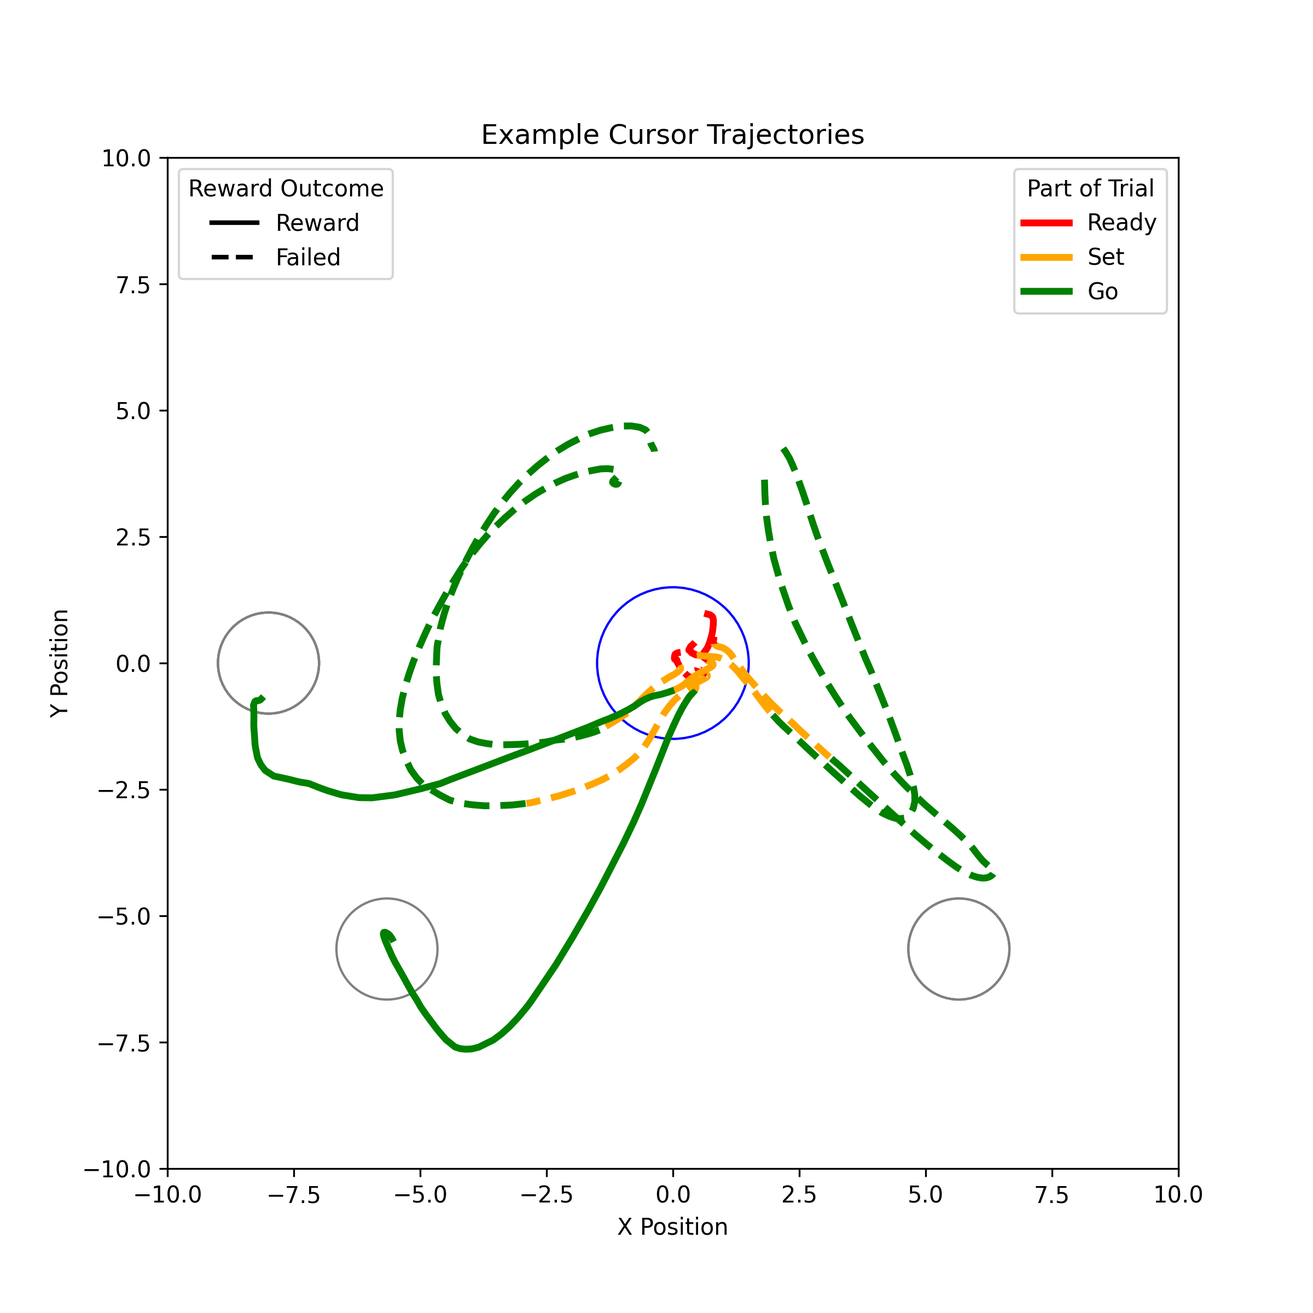
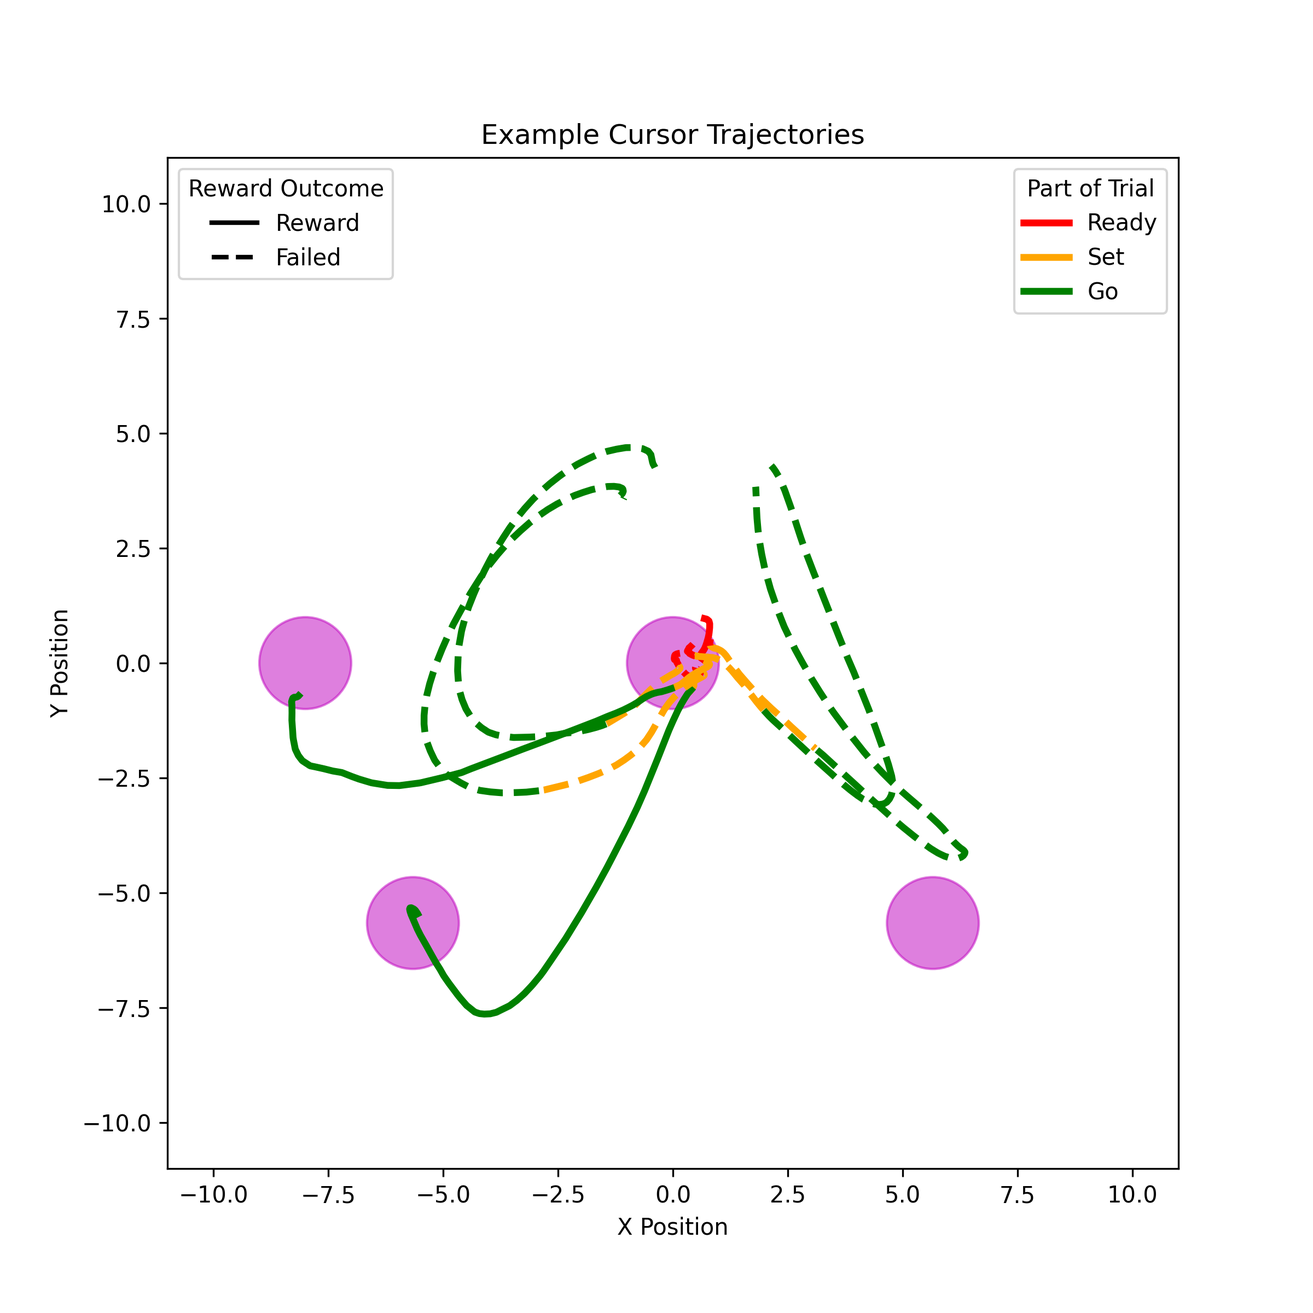
Add two different version of wrapper readyset (v1 & v2) to account for the different task structures. Add a small function that allows for choice between the two. Update the test file to account for the differences. Added columns for ready time, set time , go cue time as well as earliest move time a

diff --git a/aopy/data/bmi3d.py b/aopy/data/bmi3d.py
@@ -2663,8 +2663,195 @@ def tabulate_behavior_data_random_targets(preproc_dir, subjects, ids, dates, met
     df = pd.concat([df, new_df], ignore_index = True)
     return df
 
-def tabulate_behavior_data_readyset(preproc_dir, subjects, ids, dates, metadata = [], df = None):
+def tabulate_readyset_v1(preproc_dir, subjects, ids, dates, metadata=[], df=None):
+    '''
+    Wrapper around tabulate_behavior_data() specifically for readysetgo center-out experiments. 
+    Modified version of the existing tabulate_behavior_data_center_out wrapper.
+    Makes use of the task codes saved in `/config/task_codes.yaml` to automatically 
+    assign event codes for trial start, trial end, reward, penalty, and targets. Used for data prior to 08/2025 as the readyset task was changed after that time.
 
+    Args:
+        preproc_dir (str): base directory where the files live
+        subjects (list of str): Subject name for each recording
+        ids (list of int): Block number of Task entry object for each recording
+        dates (list of str): Date for each recording
+        metadata (list, optional): list of metadata keys that should be included in the df
+        df (DataFrame, optional): pandas DataFrame object to append. Defaults to None.
+
+    Returns:
+        pd.DataFrame: pandas DataFrame containing the concatenated trial data with columns:
+            | **subject (str):** subject name
+            | **te_id (str):** task entry id
+            | **date (str):** date of recording
+            | **event_codes (ntrial):** numeric code segments for each trial
+            | **event_times (ntrial):** time segments for each trial
+            | **reward (ntrial):** boolean values indicating whether each trial was rewarded
+            | **penalty (ntrial):** boolean values indicating whether each trial was penalized
+            | **%metadata_key% (ntrial):** requested metadata values for each key requested
+            | **target_idx (ntrial):** index of the target that was presented
+            | **target_location (ntrial):** location of the target that was presented
+            | **center_target_on_time (ntrial):** time at which the trial started
+            | **prev_trial_end_time (ntrial):** time at which the previous trial ended
+            | **trial_end_time (ntrial):** time at which the trial ended
+            | **trial_initiated (ntrial):** boolean values indicating whether the trial was initiated
+            | **hold_start_time (ntrial):** time at which the hold period started
+            | **hold_completed (ntrial):** boolean values indicating whether the hold period was completed
+            | **periph_display_time (ntrial):** time at which the peripheral target was displayed
+            | **periph_target_displayed (ntrial):** boolean values indicating whether the peripheral target was displayed
+            | **ready_start_time (ntrial):** time at which the tone wav file starts 
+            | **set_start_time (ntrial):** time of the set cue
+            | **set_cue_heard (ntrial):** boolean whether set cue was heard  
+            | **go_cue_heard (ntrial):** boolean values indicating whether the go cue was heard
+            | **go_cue_time (ntrial):** time at which the go cue was presented
+            | **earliest_move_time (ntrial):** earliest time at which the user is allowed to move out of the center target 
+            | **latest_move_time (ntrial):** time at which user has to have moved out of the center target 
+            | **reach_completed (ntrial):** boolean values indicating whether the reach was completed
+            | **reach_end_time (ntrial):** time at which the reach was completed
+            | **reward_start_time (ntrial):** time at which the reward was presented
+            | **reward_end_time (ntrial):** time at which the reward was completed
+            | **penalty_start_time (ntrial):** time at which the penalty was presented
+            | **penalty_end_time (ntrial):** time at which the penalty was completed
+            | **penalty_event (ntrial):** numeric code for the penalty event
+    '''
+    # Use default "trial" definition
+    task_codes = load_bmi3d_task_codes()
+    task_codes['CUE'] = 112  # readysetgo auditory cue code
+    trial_end_codes = [task_codes['TRIAL_END']]
+    trial_start_codes = [task_codes['CENTER_TARGET_ON']]
+    reward_codes = [task_codes['REWARD']]
+    penalty_codes = [task_codes['DELAY_PENALTY'], task_codes['HOLD_PENALTY'], 
+                     task_codes['TIMEOUT_PENALTY'], task_codes['OTHER_PENALTY']]
+    target_codes = task_codes['PERIPHERAL_TARGET_ON']
+    auditory_codes = task_codes['CUE']
+
+    always_meta = ['prepbuff_time' , 'delay_time', 'mustmv_time', 'ready_set_sound'] #need these to calculate go cue timing 
+    # Concatenate base trial data
+    new_df = tabulate_behavior_data(
+        preproc_dir, subjects, ids, dates, trial_start_codes, trial_end_codes, 
+        reward_codes, penalty_codes, metadata = metadata+always_meta, df=None)
+    if len(new_df) == 0:
+        warnings.warn("No trials found")
+    if (new_df['ready_set_sound'].unique() != 'tones.wav').all(): #spacing will be different if a different wave file was used 
+        warnings.warn("Not all ready_set_sound wavefiles are 'tones.wav', spacing for dataframe will not be accurate!")
+        return df
+
+    # Add target info
+    target_idx = [
+        code[np.isin(code, target_codes)][0] - target_codes[0] + 1 # add 1 for center target
+        if np.sum(np.isin(code, target_codes)) > 0 else 0 
+        for code 
+        in new_df['event_codes']
+    ]
+    target_location = [
+        np.squeeze(get_target_locations(preproc_dir, s, te, d, [t_idx]))
+        for s, te, d, t_idx 
+        in zip(new_df['subject'], new_df['te_id'], new_df['date'], target_idx)
+    ]
+    new_df['target_idx'] = target_idx
+    new_df['target_location'] = target_location
+
+    # Add trial segment timing
+    new_df['prev_trial_end_time'] = np.nan
+    new_df['trial_end_time'] = np.nan
+    new_df['center_target_on_time'] = np.nan
+    new_df['trial_initiated'] = False
+    new_df['hold_start_time'] = np.nan
+    new_df['hold_completed'] = False
+    new_df['periph_display_time'] = np.nan
+    new_df['periph_target_displayed'] = False
+    new_df['ready_start_time'] = np.nan
+    new_df['set_cue_time'] = np.nan
+    new_df['set_cue_heard'] = False
+    new_df['go_cue_heard'] = False
+    new_df['go_cue_time'] = np.nan
+    new_df['earliest_move_time'] = np.nan
+    new_df['latest_move_time'] = np.nan
+    new_df['must_move_passed'] = False
+    new_df['reach_completed'] = False
+    new_df['reach_end_time'] = np.nan
+    new_df['reward_start_time'] = np.nan
+    new_df['penalty_start_time'] = np.nan
+    new_df['penalty_event'] = np.nan
+    for i in range(len(new_df)):
+        event_codes = new_df.loc[i, 'event_codes']
+        event_times = new_df.loc[i, 'event_times']
+
+        # Trial end times
+        if i > 0 and new_df.loc[i-1, 'event_times'][-1] < event_times[0]:
+            new_df.loc[i, 'prev_trial_end_time'] = new_df.loc[i-1, 'event_times'][-1]
+        else:
+            new_df.loc[i, 'prev_trial_end_time'] = 0.
+        new_df.loc[i, 'trial_end_time'] = event_times[-1]
+
+        # Center target appears
+        new_df.loc[i, 'center_target_on_time'] = event_times[0]
+        
+        # Trial initiated if cursor enters the center target
+        hold_times = event_times[np.isin(event_codes, [task_codes['CURSOR_ENTER_CENTER_TARGET']])]
+        new_df.loc[i, 'trial_initiated'] = len(hold_times) > 0
+        if new_df.loc[i, 'trial_initiated']:
+            new_df.loc[i, 'hold_start_time'] = hold_times[0]
+
+        # Tones start 
+        auditory_on_times = event_times[np.isin(event_codes, task_codes['CUE'])] #wave file played on CUE event 
+        new_df.loc[i, 'auditory_start'] = len(auditory_on_times) > 0
+        if new_df.loc[i, 'auditory_start']:
+            new_df.loc[i, 'hold_completed'] = True #if prepbuff state is entered it means hold was completed
+            new_df.loc[i, 'ready_start_time'] = auditory_on_times[0] 
+
+        # Peripheral target displayed once the delay_state is entered 
+        periph_times = event_times[np.isin(event_codes, task_codes['PERIPHERAL_TARGET_ON'])]
+        new_df.loc[i, 'periph_target_displayed'] = len(periph_times) > 0
+        if new_df.loc[i, 'periph_target_displayed']:
+            new_df.loc[i, 'periph_display_time'] = periph_times[0]
+
+        # Fill out set and go times based on tones.wav file. Earliest move time is equal to prepbuff_time plus delay_time after start of audio file. 
+        # If this sum is not 1.0 then participant can move before go cue is played. 
+        if new_df.loc[i, 'ready_start_time']:
+            new_df.loc[i, 'set_cue_time'] = new_df.loc[i, 'ready_start_time'] + 0.5 #hard coded based on construction of tones.wav
+            new_df.loc[i, 'go_cue_time'] = new_df.loc[i, 'ready_start_time'] + 1.0 #hard coded based on construction of tones.wav
+            new_df.loc[i, 'earliest_move_time'] = new_df.loc[i,'ready_start_time'] + new_df.loc[i, 'prepbuff_time'] + new_df.loc[i, 'delay_time']
+            new_df.loc[i, 'latest_move_time'] = new_df.loc[i, 'go_cue_time'] + new_df.loc[i, 'mustmv_time']
+
+        # Reach completed if cursor enters target (regardless of whether the trial was successful)
+        reach_times = event_times[np.isin(event_codes, task_codes['CURSOR_ENTER_PERIPHERAL_TARGET'])]
+        new_df.loc[i, 'reach_completed'] = len(reach_times) > 0
+        if new_df.loc[i, 'reach_completed']:
+            new_df.loc[i, 'reach_end_time'] = reach_times[0]
+            new_df.loc[i, 'go_cue_heard'] = True  # if reach was completed, go cue must have been heard
+            new_df.loc[i, 'must_move_passed'] = True  # if reach was completed, must move time must have been passed
+            new_df.loc[i, 'set_cue_heard'] = True  # if reach was completed, set cue must have been heard
+
+        # Reward start times
+        reward_times = event_times[np.isin(event_codes, task_codes['REWARD'])]      
+        if len(reward_times) > 0:
+            new_df.loc[i, 'reward_start_time'] = reward_times[0]
+
+        # Penalty start times
+        penalty_idx = np.isin(event_codes, penalty_codes)
+        penalty_code_id = event_codes[penalty_idx]
+        penalty_times = event_times[penalty_idx]
+        if len(penalty_times) > 0:
+            new_df.loc[i, 'penalty_start_time'] = penalty_times[0]
+            new_df.loc[i, 'penalty_event'] = penalty_code_id[0]
+            if penalty_times[0] < new_df.loc[i, 'set_cue_time']:
+                new_df.loc[i, 'set_cue_heard'] = False  # if penalty occurs before set cue then set cue wasnt heard
+                new_df.loc[i, 'set_cue_time'] = np.nan
+                new_df.loc[i, 'go_cue_time'] = np.nan  # if penalty occurs before set cue then go cue wasnt heard
+                new_df.loc[i, 'go_cue_heard'] = False
+            if new_df.loc[i,'set_cue_time'] < penalty_times[0] < new_df.loc[i, 'go_cue_time']:
+                new_df.loc[i, 'go_cue_time'] = np.nan  # if penalty occurs before go cue then go cue wasnt heard
+                new_df.loc[i, 'go_cue_heard'] = False
+                new_df.loc[i, 'set_cue_heard'] = True
+            if penalty_times[0] > new_df.loc[i, 'latest_move_time']:
+                new_df.loc[i, 'must_move_passed'] = True  # if penalty occurs after must move time then must move was passed
+                new_df.loc[i, 'set_cue_heard'] = True
+                new_df.loc[i, 'go_cue_heard'] = True
+
+    df = pd.concat([df, new_df], ignore_index=True)
+    return df
+
+def tabulate_readyset_v2(preproc_dir, subjects, ids, dates, metadata=[], df=None):
     '''
     Wrapper around tabulate_behavior_data() specifically for readysetgo center-out experiments.  
     Modified version of the existing tabulate_behavior_data_center_out wrapper.
@@ -2699,9 +2886,13 @@ def tabulate_behavior_data_readyset(preproc_dir, subjects, ids, dates, metadata 
             | **hold_completed (ntrial):** boolean values indicating whether the hold period was completed
             | **periph_display_time (ntrial):** time at which the peripheral target was displayed
             | **periph_target_displayed (ntrial):** boolean values indicating whether the peripheral target was displayed
-            | **auditory_start_time (ntrial):** time at which the set of tones starts 
+            | **ready_start_time (ntrial):** time at which the tone wav file starts 
+            | **set_start_time (ntrial):** time of the set cue
+            | **set_cue_heard (ntrial):** boolean whether set cue was heard  
             | **go_cue_heard (ntrial):** boolean values indicating whether the go cue was heard
             | **go_cue_time (ntrial):** time at which the go cue was presented
+            | **earliest_move_time (ntrial):** earliest time at which the user is allowed to move out of the center target 
+            | **latest_move_time (ntrial):** time at which user has to have moved out of the center target 
             | **reach_completed (ntrial):** boolean values indicating whether the reach was completed
             | **reach_end_time (ntrial):** time at which the reach was completed
             | **reward_start_time (ntrial):** time at which the reward was presented
@@ -2718,9 +2909,11 @@ def tabulate_behavior_data_readyset(preproc_dir, subjects, ids, dates, metadata 
     penalty_codes = [task_codes['DELAY_PENALTY'], task_codes['HOLD_PENALTY'], 
                      task_codes['TIMEOUT_PENALTY'], task_codes['OTHER_PENALTY']]
     target_codes = task_codes['PERIPHERAL_TARGET_ON']
-    auditory_codes = task_codes['CUE']
+    ready_codes = task_codes['CUE']
+    set_code = 113
+    go_code = 114
 
-    always_meta = ['prepbuff_time' , 'delay_time'] #need these to calculate go cue timing 
+    always_meta = ['early_move_time', 'mustmv_time', 'tone_space'] #need this to calculate earliest and latest move time 
     # Concatenate base trial data
     new_df = tabulate_behavior_data(
         preproc_dir, subjects, ids, dates, trial_start_codes, trial_end_codes, 
@@ -2752,10 +2945,16 @@ def tabulate_behavior_data_readyset(preproc_dir, subjects, ids, dates, metadata 
     new_df['hold_start_time'] = np.nan
     new_df['hold_completed'] = False
     new_df['periph_display_time'] = np.nan
-    new_df['periph_target_displayed'] = False
-    new_df['auditory_start_time'] = np.nan
-    new_df['go_cue_heard'] = False
+    new_df['periph_target_displayed'] = False #time at which peripheral target turns on 
+    new_df['ready_start_time'] = np.nan #onset of auditory tone
+    new_df['ready_start'] = False #whether ready tone was played (auditory tones started)
+    new_df['set_cue_time'] = np.nan
+    new_df['set_cue_heard'] = False
     new_df['go_cue_time'] = np.nan
+    new_df['go_cue_heard'] = False
+    new_df['earliest_move_time'] = np.nan
+    new_df['latest_move_time'] = np.nan 
+    new_df['must_move_passed'] = False
     new_df['reach_completed'] = False
     new_df['reach_end_time'] = np.nan
     new_df['reward_start_time'] = np.nan
@@ -2782,11 +2981,18 @@ def tabulate_behavior_data_readyset(preproc_dir, subjects, ids, dates, metadata 
             new_df.loc[i, 'hold_start_time'] = hold_times[0]
 
         # Tones start 
-        auditory_on_times = event_times[np.isin(event_codes, task_codes['CUE'])]
-        new_df.loc[i, 'auditory start'] = len(auditory_on_times) > 0
-        if new_df.loc[i, 'auditory start']:
+        auditory_on_times = event_times[np.isin(event_codes, task_codes['CUE'])] #look for 112 
+        new_df.loc[i, 'ready_start'] = len(auditory_on_times) > 0
+        if new_df.loc[i, 'ready_start']:
             new_df.loc[i, 'hold_completed'] = True #if prepbuff state is entered it means hold was completed
-            new_df.loc[i, 'auditory_start_time'] = auditory_on_times[0]
+            new_df.loc[i, 'ready_start_time'] = auditory_on_times[0]
+
+        # Set time 
+        set_cue_times = event_times[np.isin(event_codes, set_code)] #look for 113 
+        new_df.loc[i, 'set_cue_heard'] = len(set_cue_times) > 0
+        if new_df.loc[i, 'set_cue_heard']:
+            new_df.loc[i , 'set_cue_time'] = set_cue_times[0]
+            new_df.loc[i, 'earliest_move_time'] = new_df.loc[i , 'set_cue_time'] + new_df.loc[i, 'tone_space'] - new_df.loc[i, 'early_move_time'] # earliest allowed movement relative to set cue
 
         # Peripheral target displayed once the delay_state is entered 
         periph_times = event_times[np.isin(event_codes, task_codes['PERIPHERAL_TARGET_ON'])]
@@ -2795,16 +3001,18 @@ def tabulate_behavior_data_readyset(preproc_dir, subjects, ids, dates, metadata 
             new_df.loc[i, 'periph_display_time'] = periph_times[0]
 
         # Go cue on (this is equal to prepbuff_time plus delay_time) 
-        #slightly longer than lenght of audio file because it is tone onset (not tone offset) 
-        if new_df.loc[i, 'auditory_start_time']:
-            new_df.loc[i, 'go_cue_time'] = new_df.loc[i,'auditory_start_time'] + new_df.loc[i, 'prepbuff_time'] + new_df.loc[i, 'delay_time']
-            new_df.loc[i, 'go_cue_heard'] = True
+        go_cue_times = event_times[np.isin(event_codes, go_code)] #look for 114
+        new_df.loc[i, 'go_cue_heard'] = len(go_cue_times) > 0
+        if new_df.loc[i, 'go_cue_heard']:
+            new_df.loc[i , 'go_cue_time'] = go_cue_times[0]
+            new_df.loc[i, 'latest_move_time'] = new_df.loc[i , 'go_cue_time'] + new_df.loc[i, 'mustmv_time'] # latest allowed movement relative to go cue
 
         # Reach completed if cursor enters target (regardless of whether the trial was successful)
         reach_times = event_times[np.isin(event_codes, task_codes['CURSOR_ENTER_PERIPHERAL_TARGET'])]
         new_df.loc[i, 'reach_completed'] = len(reach_times) > 0
         if new_df.loc[i, 'reach_completed']:
             new_df.loc[i, 'reach_end_time'] = reach_times[0]
+            new_df.loc[i, 'must_move_passed'] = True
 
         # Reward start times
         reward_times = event_times[np.isin(event_codes, task_codes['REWARD'])]      
@@ -2813,16 +3021,45 @@ def tabulate_behavior_data_readyset(preproc_dir, subjects, ids, dates, metadata 
 
         # Penalty start times
         penalty_idx = np.isin(event_codes, penalty_codes)
-        penatly_codes = event_codes[penalty_idx]
+        penalty_code_id = event_codes[penalty_idx]
         penalty_times = event_times[penalty_idx]
         if len(penalty_times) > 0:
             new_df.loc[i, 'penalty_start_time'] = penalty_times[0]
-            new_df.loc[i, 'penalty_event'] = penatly_codes[0]
+            new_df.loc[i, 'penalty_event'] = penalty_code_id[0]
             if penalty_times[0] < new_df.loc[i, 'go_cue_time']:
                 new_df.loc[i, 'go_cue_time'] = np.nan  # if penalty occurs before go cue then go cue wasnt heard
                 new_df.loc[i, 'go_cue_heard'] = False
+            if penalty_times[0] > new_df.loc[i, 'latest_move_time']:# if penalty occurs after the latest move time has elapsed 
+                new_df.loc[i, 'must_move_passed'] = True
 
     df = pd.concat([df, new_df], ignore_index=True)
+    return df
+
+def tabulate_behavior_data_readyset(preproc_dir, subjects, ids, dates, metadata=[], version = " ",
+                                      df=None):
+    '''
+    Wrapper around tabulate_behavior_data() specifically for readysetgo center-out experiments.  
+    Depending on when the data was collected (prior to or after August 2025), different task parameters are used to construct the dataframe.
+
+    Args:
+        preproc_dir (str): base directory where the files live
+        subjects (list of str): Subject name for each recording
+        ids (list of int): Block number of Task entry object for each recording
+        dates (list of str): Date for each recording
+        metadata (list, optional): list of metadata keys that should be included in the df
+        version (str, optional): version of readyset task to use ('v2' or 'v1'). Default to using version 2.
+        df (DataFrame, optional): pandas DataFrame object to append. Defaults to None.
+
+    Returns:
+        pd.DataFrame: pandas DataFrame containing the concatenated trial data with columns. See tabulate_readyset_v1() and tabulate_readyset_v2() for details.
+     '''
+
+    version = version.lower() 
+
+    if version == "v1":
+        df = tabulate_readyset_v1(preproc_dir, subjects, ids, dates, metadata, df)
+    else:
+        df = tabulate_readyset_v2(preproc_dir, subjects, ids, dates, metadata, df)
     return df
 
 def tabulate_stim_data(preproc_dir, subjects, ids, dates, metadata=['stimulation_site'], 

diff --git a/tests/test_data.py b/tests/test_data.py
@@ -1086,15 +1086,15 @@ class TestGetPreprocDataFuncs(unittest.TestCase):
         ids = [20778,]
         dates = ['2025-06-12']
 
-        df = tabulate_behavior_data_readyset(data_dir, subjects, ids, dates, metadata = ['target_radius' , 'pertubation_rotation'])
+        df = tabulate_behavior_data_readyset(data_dir, subjects, ids, dates, metadata = ['target_radius' , 'pertubation_rotation'], version = "v1")
         self.assertEqual(len(df), 212) #check correct length 
-        self.assertEqual(len(df.columns), 31)  #check correct number of columns
+        self.assertEqual(len(df.columns), 38)  #check correct number of columns
 
         # Visualization Check 
         df_hc = df[df['hold_completed']].reset_index()
         example_reaches = df_hc[0:6]
         example_traj = tabulate_kinematic_data(data_dir, example_reaches['subject'], example_reaches['te_id'],
-                                               example_reaches['date'], example_reaches['auditory_start_time'], 
+                                               example_reaches['date'], example_reaches['ready_start_time'], 
                                                example_reaches['trial_end_time'], datatype = 'cursor')
         
         example_reaches['cursor_traj'] = example_traj
@@ -1103,6 +1103,7 @@ class TestGetPreprocDataFuncs(unittest.TestCase):
         color_dict = {'ready': 'red', 'set': 'orange', 'go': 'green'}
         style_option = {'reward': '-', 'penalty': '--'}
         tone_space = 500 #space between tones is 0.5 seconds or 500 samples 
+        tarcir = []
 
         for idx, traj in enumerate(example_traj):
 
@@ -1112,8 +1113,7 @@ class TestGetPreprocDataFuncs(unittest.TestCase):
                 style = style_option['penalty']
 
             tarloc = example_reaches.loc[idx, 'target_location']
-            tarcir = plt.Circle((tarloc[0], tarloc[1]), 1.0, color='gray', fill=False)
-            ax.add_patch(tarcir)
+            tarcir.append(tarloc)
             n = traj.shape[0]
 
             # Plot first 500 samples (the ready)
@@ -1126,10 +1126,10 @@ class TestGetPreprocDataFuncs(unittest.TestCase):
             if n > 2*tone_space:
                 ax.plot(traj[2*tone_space:min(3*tone_space, n), 0], traj[2*tone_space:min(3*tone_space, n), 1], color=color_dict['go'], linestyle =style, linewidth = 3)
 
-        cir = plt.Circle((0, 0), 1.5, color='b', fill=False)
-        ax.add_patch(cir)
-        ax.set_xlim([-10,10])
-        ax.set_ylim([-10,10])
+        tarcir.append([0,0,0]) #add center target circle
+
+        visualization.plot_circles(tarcir, circle_radius = 1.0, circle_color = 'm', bounds = [-10,10,-10,10], ax = ax)
+
         ax.set_aspect('equal', adjustable='box')
         plt.xlabel('X Position')
         plt.ylabel('Y Position')
